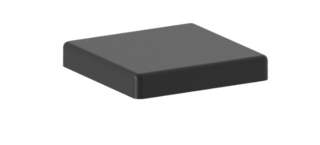
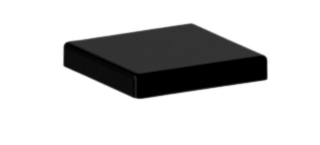
Cores da  Tampa funcionando
As cores das tampas já estão funcionando (Alteração feita no JS). Ainda não está sendo salvo no  db

Changed region(s): [[0.1875, 0.1655, 0.8438, 0.6897]]

diff --git a/AppSmartWeb_Projeto/AppSmartWeb_Projeto-Base/loja-pedido/src/main/resources/static/js/pedido.js b/AppSmartWeb_Projeto/AppSmartWeb_Projeto-Base/loja-pedido/src/main/resources/static/js/pedido.js
@@ -150,7 +150,14 @@ function verBlocosMontados() {
     }
 
     document.getElementById("divAlturaTampa").style.zIndex = "23";
-    document.getElementById("tampa").src = andares ? "assets/bloco/rTampa1.png" : "assets/bloco/rBlocoCor0.png";
+    if(document.getElementById("tampaPedido").value == 1){
+        document.getElementById("tampa").src = andares ? "assets/bloco/rTampa1.png" : "assets/bloco/rBlocoCor0.png";
+    } else if(document.getElementById("tampaPedido").value == 2){
+        document.getElementById("tampa").src = andares ? "assets/bloco/rTampa2.png" : "assets/bloco/rBlocoCor0.png";
+    } else if(document.getElementById("tampaPedido").value == 3){
+        document.getElementById("tampa").src = andares ? "assets/bloco/rTampa3.png" : "assets/bloco/rBlocoCor0.png";
+    }
+
 
     function aplicarFiltroPadrao(padraoElement, corLamina) {
         if (corLamina === "5" || corLamina === "preto") {
@@ -645,8 +652,15 @@ function renderizarBlocoUnico(pedido, pedidoIndex) {
 
     const tampaImg = document.createElement('img');
     tampaImg.className = 'imagemBlocoMontado';
-    tampaImg.id = `pedido-${pedidoIndex}-tampa`;
-    tampaImg.src = 'assets/bloco/rTampa1.png';
+    tampaImg.id = `pedido-${pedidoIndex}-tampa`;;
+    if(document.getElementById("tampaPedido").value == 1){
+        tampaImg.src = 'assets/bloco/rTampa1.png';
+    } else if(document.getElementById("tampaPedido").value == 2){
+        tampaImg.src = 'assets/bloco/rTampa2.png';
+    } else if(document.getElementById("tampaPedido").value == 3){
+        tampaImg.src = 'assets/bloco/rTampa3.png';
+    }
+
     tampaImg.alt = 'tampa';
     tampaDiv.appendChild(tampaImg);
     

diff --git a/AppSmartWeb_Projeto/AppSmartWeb_Projeto-Base/loja-pedido/src/main/resources/templates/loja.html b/AppSmartWeb_Projeto/AppSmartWeb_Projeto-Base/loja-pedido/src/main/resources/templates/loja.html
@@ -42,6 +42,14 @@
                     <option value="triplo">Triplo (3 blocos)</option>
                 </select>
 
+                <label for="tampaPedido">Tampa do Pedido:</label>
+                <select id="tampaPedido" onchange="renderBlocos()">
+                    <option value="1">Preto</option>
+                    <option value="2">Vermelho</option>
+                    <option value="3">Azul</option>                    
+                </select>
+
+
                 <div id="blocosContainer"></div>
 
                 <div class="button-group">
